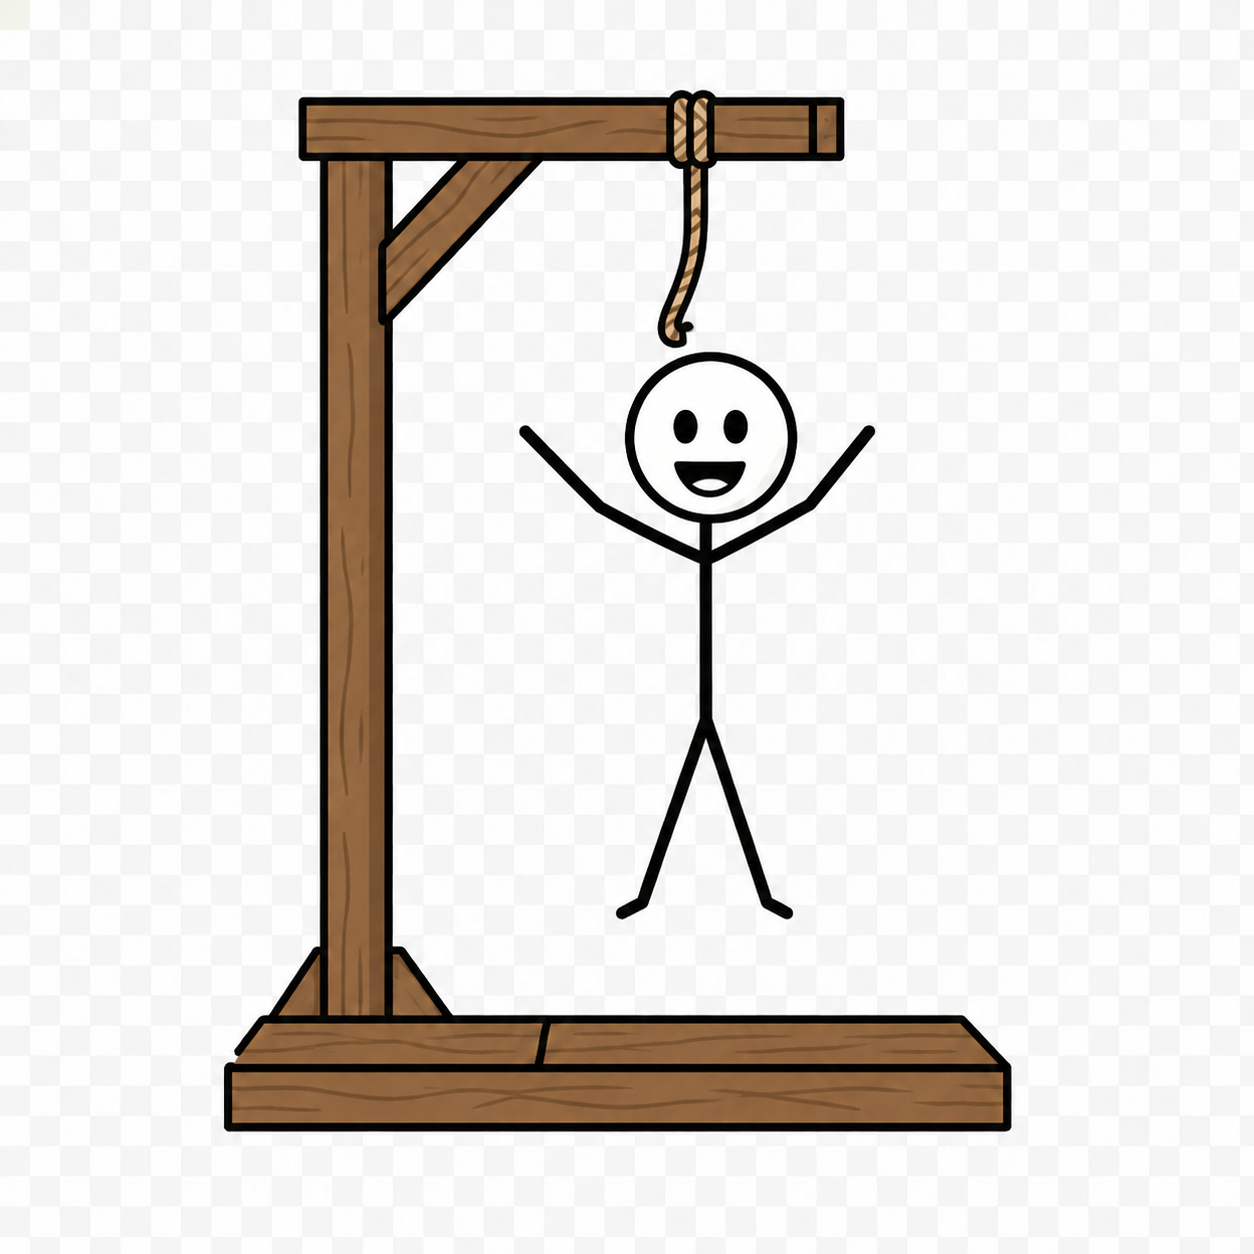
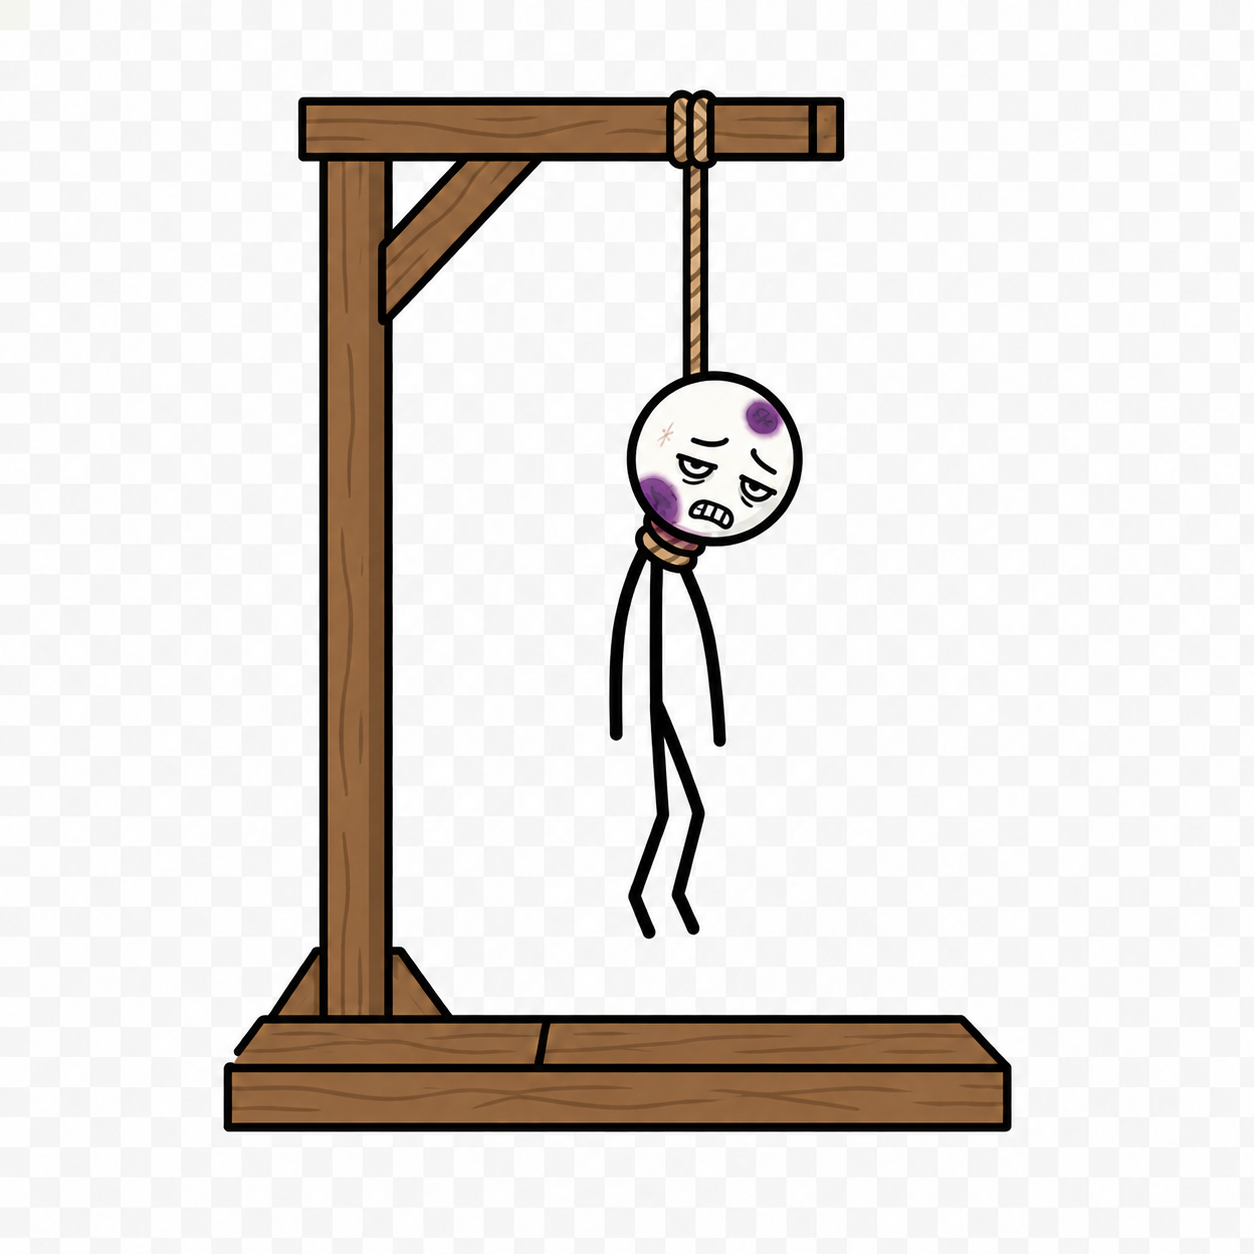
updated JS + added audio files + added images

Changed region(s): [[0.4043, 0.1244, 0.7153, 0.7464], [0.5909, 0.6531, 0.6531, 0.7464]]

diff --git a/scripts/script.js b/scripts/script.js
@@ -12,6 +12,11 @@ const messageText = document.getElementById("messageText");
 const playAgainButton = document.getElementById("playAgainButton");
 const keyboard = document.getElementById("keyboard");
 
+const correctSound = new Audio("./audio/correct.mp3");
+const wrongSound = new Audio("./audio/wrong.mp3");
+const winSound = new Audio("./audio/win.mp3");
+const loseSound = new Audio("./audio/lose.mp3");
+
 const game = new HangmanGame(6);
 
 startButton.addEventListener("click", function() {
@@ -24,8 +29,8 @@ playAgainButton.addEventListener("click", function() {
 
 fetch("./data/words.json")
     .then(function(response) {
-        if (!response) {
-            throw new Error("Could not load words");
+        if (!response.ok) {
+            throw new Error("Could not load words.");
         }
 
         return response.json();
@@ -36,7 +41,7 @@ fetch("./data/words.json")
     })
     .catch(function(error) {
         hintText.textContent = "Words could not load.";
-        messageText.textContent = "Server error.";
+        messageText.textContent = "Server error occurred.";
         console.log(error);
     });
 
@@ -64,17 +69,19 @@ function handleLetterClick(button) {
 
     const result = game.guessLetter(letter);
 
-    game.guessedLetters.push;
     usedLetters.textContent = game.guessedLetters.join(", ");
+    wrongCount.textContent = game.wrongGuesses;
 
     if (result === "correct") {
         button.className = "letter-button correct";
+        updateHangmanImage(game, hangmanImage);
         showMessage(messageText, "Correct guess.");
+        playSound(correctSound);
     } else if (result === "wrong") {
         button.className = "letter-button wrong";
-        wrongCount.textContent = game.wrongGuesses;
         updateHangmanImage(game, hangmanImage);
         showMessage(messageText, "Wrong guess.");
+        playSound(wrongSound);
     }
 
     showWord(game, wordDisplay);
@@ -84,14 +91,18 @@ function handleLetterClick(button) {
 function checkResult() {
     if (game.hasPlayerWon()) {
         game.endGame();
+        showHappyHangman(hangmanImage);
         showMessage(messageText, "You won. You saved the hanged man.");
+        playSound(winSound);
         playAgainButton.style.display = "inline-block";
         disableKeyboard();
     }
 
     if (game.hasPlayerLost()) {
         game.endGame();
+        updateHangmanImage(game, hangmanImage);
         showMessage(messageText, "You lost. The word was " + game.word + ".");
+        playSound(loseSound);
         playAgainButton.style.display = "inline-block";
         disableKeyboard();
     }

diff --git a/scripts/functions.js b/scripts/functions.js
@@ -50,9 +50,21 @@ function updateHangmanImage(game, hangmanImage) {
     hangmanImage.alt = "Hangman stage " + game.wrongGuesses;
 }
 
+function showHappyHangman(hangmanImage) {
+    hangmanImage.src = "./images/hangman-happy.jpeg";
+    hangmanImage.alt = "Happy saved hangman";
+}
+
 function showMessage(messageText, message) {
     messageText.className = "message";
     void messageText.offsetWidth;
     messageText.textContent = message;
     messageText.className = "message fade-message";
+}
+
+function playSound(sound) {
+    sound.currentTime = 0;
+    sound.play().catch(function() {
+        console.log("Audio file could not play.");
+    });
 }